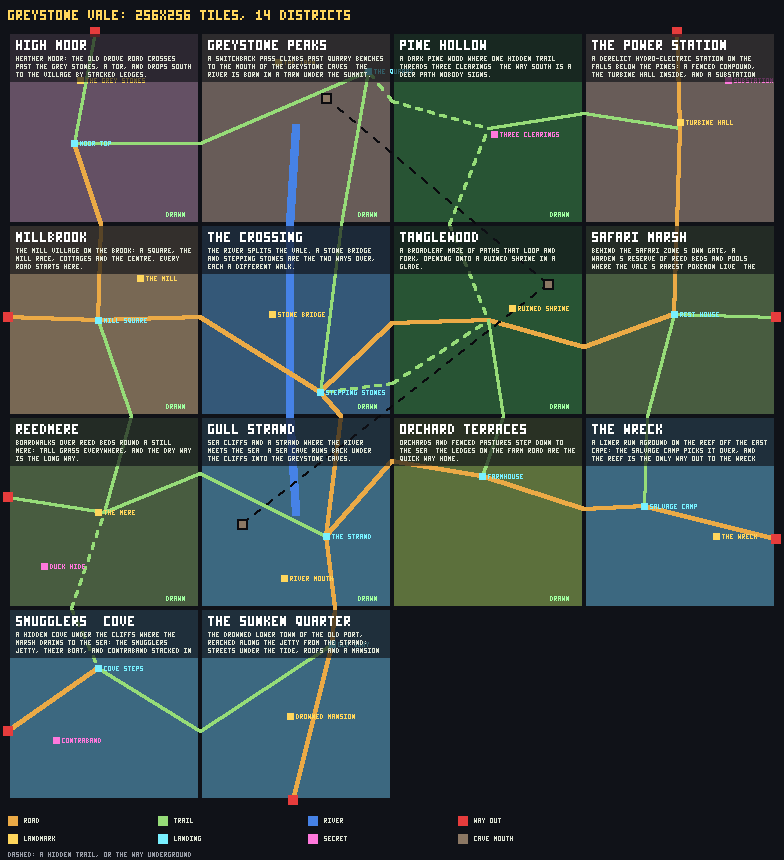
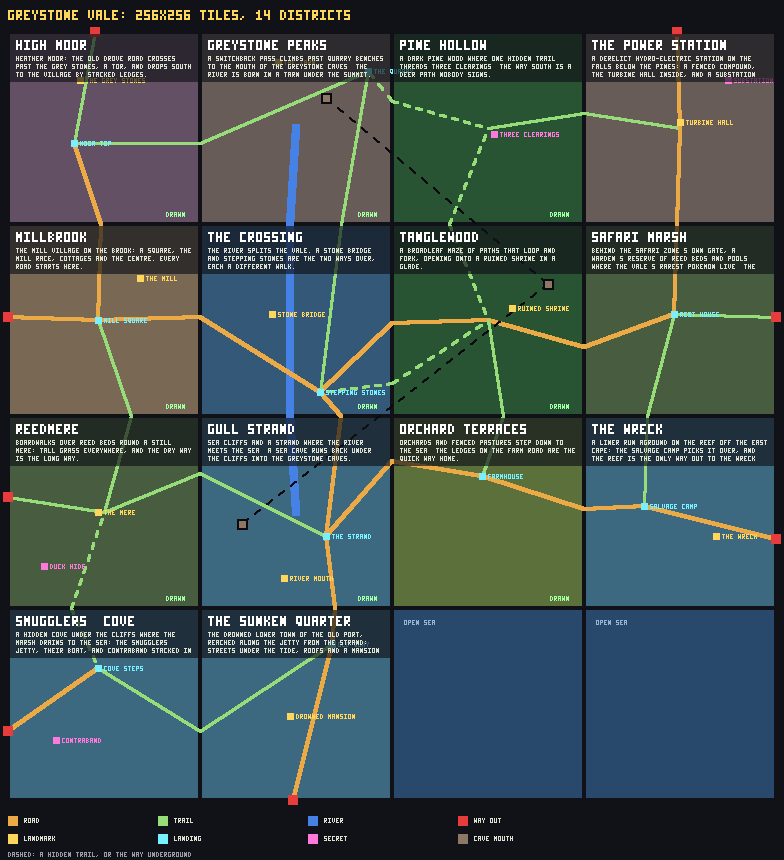
Greystone Vale: open sea south of the orchards and the cape (#321)
Growing the vale to 256 tall left two cells of the new south row - under
Orchard Terraces and The Wreck - that are no district, and the stitcher
laid them as wood, so the coast there ended in a ruled line of forest
along the whole of y192 instead of running to the map's edge as it did.

A world plan can now name cells that are open sea (`seas`): the stitcher
lays them as deep water, the plan picture marks them OPEN SEA, and the
plan check refuses a sea on a district's cell or outside the districts'
bounds. Greystone Vale's two are sea.

Changed region(s): [[0.4898, 0.6953, 1.0, 0.9372]]

diff --git a/tools/mapcraft/worldPlan.ts b/tools/mapcraft/worldPlan.ts
@@ -107,6 +107,13 @@ export interface WorldPlan {
   readonly landmarks?: readonly PlannedLandmark[];
   readonly caves?: readonly PlannedCave[];
   /**
+   * Cells of the plan that are open sea rather than districts, columns and
+   * rows as a district's `cell`, inside the districts' bounds. The stitcher
+   * lays them as deep water, so a coast that faces one meets the sea rather
+   * than the wood an empty cell would be.
+   */
+  readonly seas?: readonly (readonly [number, number])[];
+  /**
    * The game's own map, not a player's: its stitched file is held to
    * `BUILT_IN_MAP_FILE_LIMITS`, as `builtInFileMap` reads it. Each district's
    * own file is still a map anybody could draw.
@@ -180,7 +187,11 @@ export function planBounds(plan: WorldPlan): {
 
 /** Where a district lies in the stitched map, in tiles. */
 export function districtRect(plan: WorldPlan, id: string): TileRect {
-  const { cell } = districtOf(plan, id);
+  return cellRect(plan, districtOf(plan, id).cell);
+}
+
+/** Where a cell of the plan lies in the stitched map, in tiles. */
+export function cellRect(plan: WorldPlan, cell: readonly [number, number]): TileRect {
   const bounds = planBounds(plan);
   return {
     x: (cell[0] - bounds.column) * plan.districtSize,
@@ -281,6 +292,19 @@ export function checkPlan(plan: WorldPlan): string[] {
     );
   if (plan.districts.length > 0) {
     const bounds = planBounds(plan);
+    for (const sea of plan.seas ?? []) {
+      const key = sea.join(',');
+      if (cells.has(key)) problems.push(`Cell ${key} is a sea or a district, not both, and once.`);
+      cells.add(key);
+      const [column, row] = sea;
+      if (
+        column < bounds.column ||
+        row < bounds.row ||
+        column >= bounds.column + bounds.columns ||
+        row >= bounds.row + bounds.rows
+      )
+        problems.push(`The sea at cell ${key} is outside the districts' bounds.`);
+    }
     if (
       bounds.columns * size > held.maxWidth ||
       bounds.rows * size > held.maxHeight

diff --git a/tools/mapcraft/world.test.ts b/tools/mapcraft/world.test.ts
@@ -60,6 +60,25 @@ describe('the world plan', () => {
     expect(districtRect(grown, 'west-wood')).toEqual({ x: 0, y: 0, width: 32, height: 32 });
   });
 
+  it('lays a sea cell as deep water, and refuses one on a district or outside the plan', () => {
+    const coast: WorldPlan = {
+      ...QUARRY_ROAD,
+      districts: [
+        ...QUARRY_ROAD.districts,
+        { id: 'south-wood', name: 'SOUTH WOOD', cell: [0, 1], idea: 'A wood below the bend.' },
+      ],
+      seas: [[1, 1]],
+    };
+    expect(checkPlan(coast)).toEqual([]);
+    const { file } = stitch(coast, files());
+    expect(file.ground.slice(32).every((row) => row.slice(32) === 'W'.repeat(32))).toBe(true);
+    expect(file.ground.slice(32).every((row) => row.slice(0, 32) === 'T'.repeat(32))).toBe(true);
+
+    const wrong = checkPlan({ ...coast, seas: [[0, 1], [2, 1]] }).join(' ');
+    expect(wrong).toMatch(/Cell 0,1 is a sea or a district/);
+    expect(wrong).toMatch(/The sea at cell 2,1 is outside/);
+  });
+
   it('starts a district sealed at its edge except at its openings', () => {
     const p = startDistrict(QUARRY_ROAD, 'orchard-bend');
     p.meadow(0, 0, 32, 32); // a careless stroke over everything

diff --git a/tools/mapcraft/stitch.ts b/tools/mapcraft/stitch.ts
@@ -26,6 +26,7 @@ import {
 import type { MapProgram } from './program';
 import { readTiles, walkable, walkingSteps, type TileRect } from './tiles';
 import {
+  cellRect,
   checkPlan,
   districtOf,
   planLimits,
@@ -129,6 +130,11 @@ export function stitch(plan: WorldPlan, built: Readonly<Record<string, MapFile>>
   const width = bounds.columns * size;
   const height = bounds.rows * size;
   const ground = Array.from({ length: height }, () => Array<string>(width).fill('T'));
+  for (const sea of plan.seas ?? []) {
+    const rect = cellRect(plan, sea);
+    for (let y = rect.y; y < rect.y + rect.height; y += 1)
+      for (let x = rect.x; x < rect.x + rect.width; x += 1) if (ground[y]) ground[y][x] = 'W';
+  }
   const merged = {
     buildings: [] as MapFile['buildings'][number][],
     dropIns: [] as MapFileDropIn[],

diff --git a/tools/mapcraft/worlds/greystoneVale/plan.ts b/tools/mapcraft/worlds/greystoneVale/plan.ts
@@ -35,8 +35,14 @@ export const GREYSTONE_VALE: WorldPlan = {
   wildlife: 'meadow',
   // The game's own map: its stitched file is read as `builtInFileMap` reads
   // it, against `BUILT_IN_MAP_FILE_LIMITS` (more landings, ways out and places
-  // than a player's map), which a vale of sixteen districts needs.
+  // than a player's map), which a vale of fourteen districts needs.
   builtIn: true,
+  // South of the orchards and the cape is the open sea: the coast there faces
+  // water to the map's edge, not a wood where no district is.
+  seas: [
+    [2, 3],
+    [3, 3],
+  ],
   // The village first: the first landing a map file lists is its front door.
   districts: [
     {

diff --git a/tools/mapcraft/README.md b/tools/mapcraft/README.md
@@ -178,7 +178,10 @@ without anything already drawn moving:
    dead end - and every seam is reported as joined, broken or waiting. A
    district left open at its edge where no crossing is planned is a problem, as
    is anything over a map file's limits (256x256 tiles, 8 drop-ins, 12 ways out,
-   40 item spots, 16 places, 32 links).
+   40 item spots, 16 places, 32 links; a plan marked `builtIn` is the game's
+   own map and is held to `BUILT_IN_MAP_FILE_LIMITS` instead). A cell of the
+   plan that is no district is wood too, unless the plan names it in `seas`:
+   open sea, laid as deep water, so a coast that faces it meets the sea.
 
 ```sh
 npx vite-node tools/mapcraft/world.mts -- tools/mapcraft/examples/quarryRoad.ts out/quarry-road

diff --git a/docs/screens/greystone-vale/README.md b/docs/screens/greystone-vale/README.md
@@ -153,7 +153,9 @@ which its program is written to:
 
 - **Barriers.** The river runs the length of the old middle column, so east
   and west meet only at The Crossing's two ways over. The peaks, the sea and the
-  wood close the edges.
+  wood close the edges. South of the orchards and the cape, two cells of the
+  plan are open sea rather than districts (`seas`), so that coast faces water
+  to the map's edge rather than a wood where no district is.
 - **Main routes.** The road from the Westward Road through Millbrook, over the
   river, into Tanglewood and on into the Safari Marsh; the drove road down from
   the moor; the coast road along the strand to the orchards and out to the
